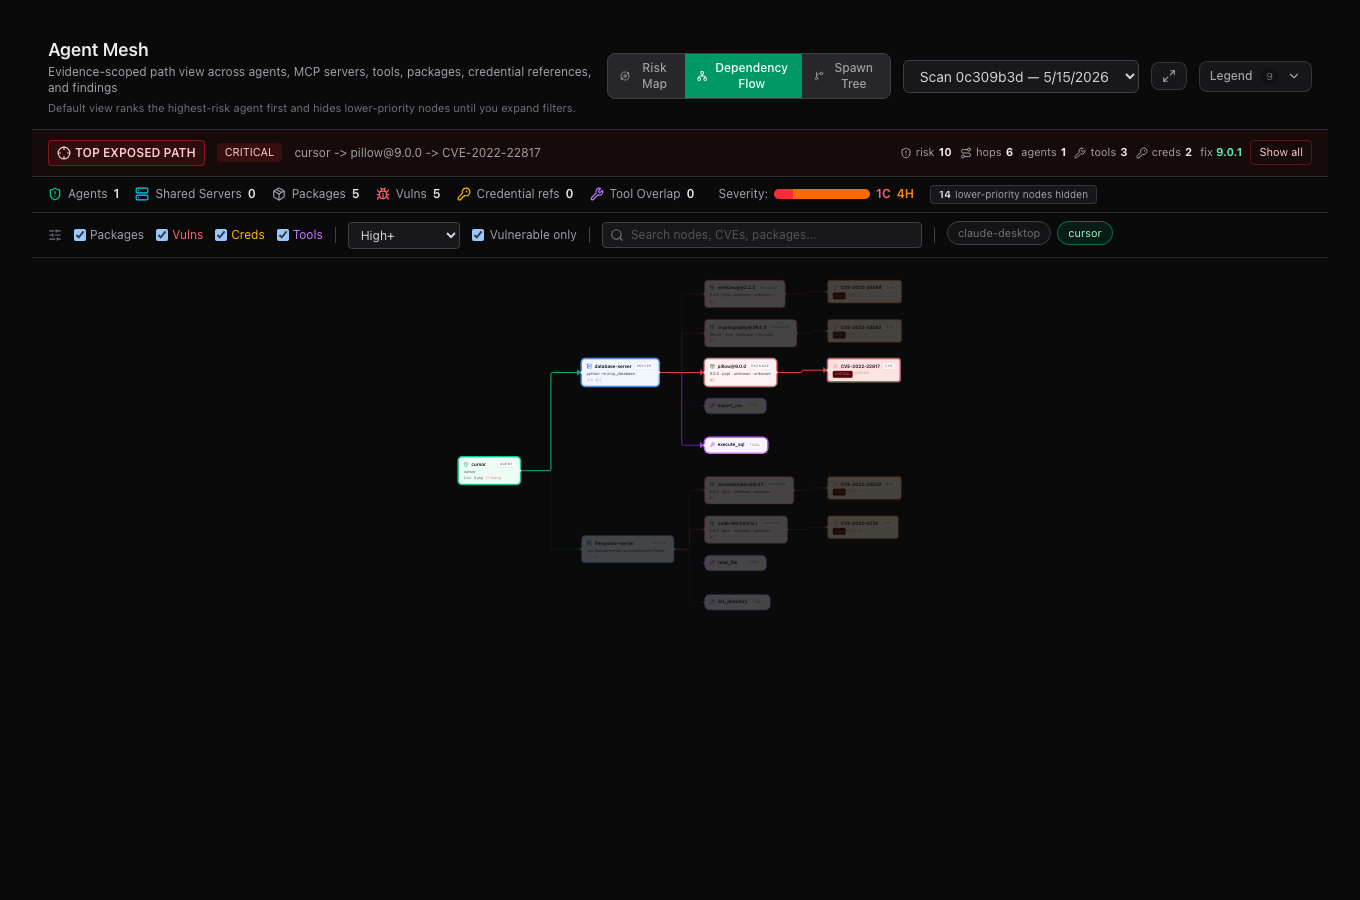
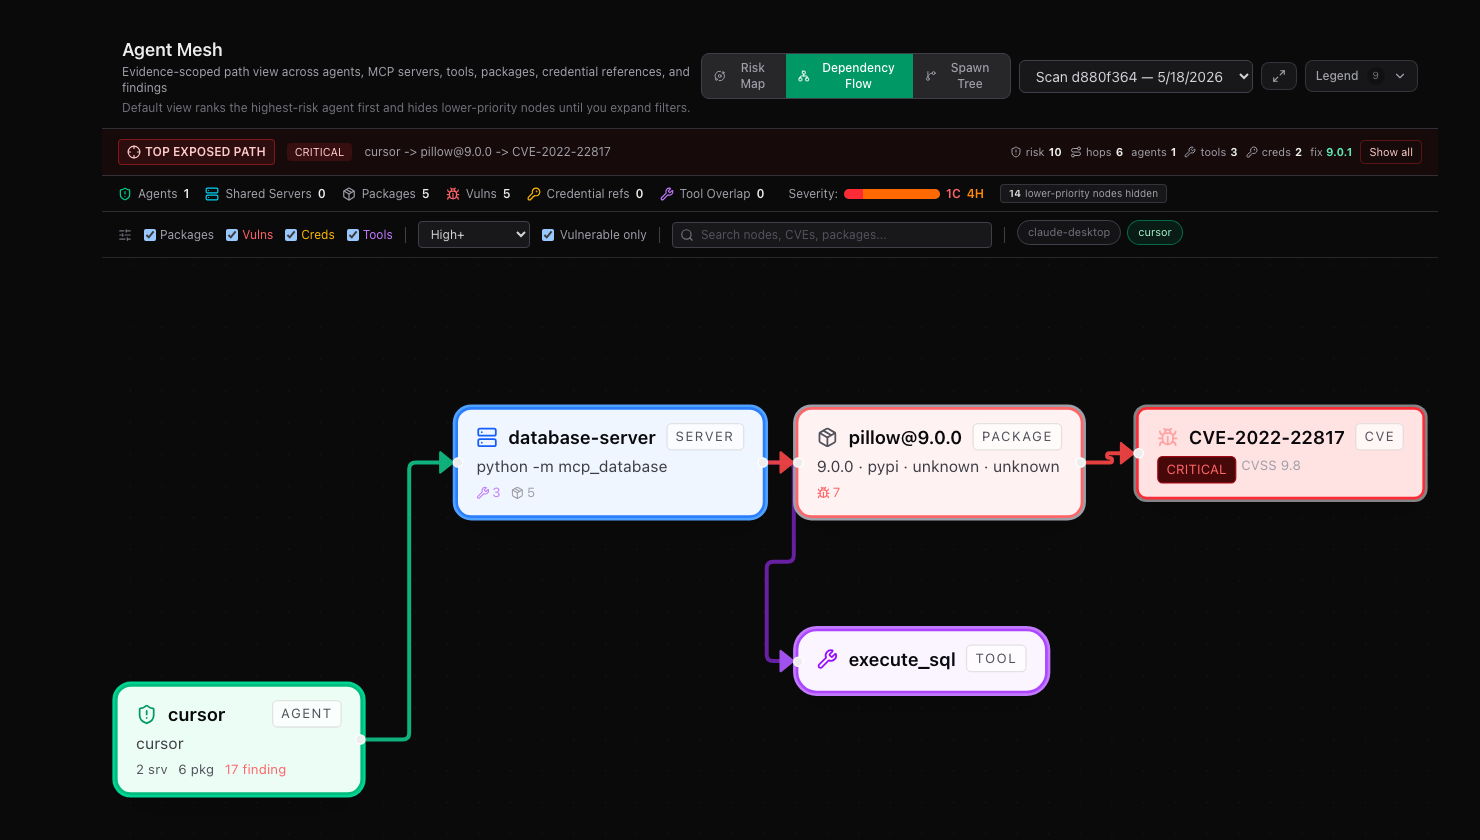
docs(product): align public proof surfaces (#2669)
Summary

- align stale public docs examples and release-safe count wording with
the current v0.87 line
- refresh the mesh graph capture so the public proof shows the active
exposure path without dimmed context or empty canvas
- update screenshot manifest metadata for the recaptured
packaged-dashboard proof

Verification

- make build-ui
- uv run agent-bom agents --demo --offline -f json -o
/tmp/agent-bom-demo-report-2667d.json
- curl -fsS -X POST -H content-type:application/json --data-binary
@/tmp/agent-bom-demo-report-2667d.json
http://127.0.0.1:8501/v1/results/push
- npm --prefix ui run typecheck
- npm --prefix ui test -- --run tests/use-capture-mode.test.tsx
tests/nav.test.tsx
- python scripts/check_release_consistency.py
- git diff --check
- uv run mkdocs build --strict

Closes #2666
Closes #2667

Pull request: docs(product): align public proof surfaces
Summary

- align stale public docs examples and release-safe count wording with the current v0.87 line
- refresh the mesh graph capture so the public proof shows the active exposure path without dimmed context or empty canvas
- update screenshot manifest metadata for the recaptured packaged-dashboard proof

Verification

- make build-ui
- uv run agent-bom agents --demo --offline -f json -o /tmp/agent-bom-demo-report-2667d.json
- curl -fsS -X POST -H content-type:application/json --data-binary @/tmp/agent-bom-demo-report-2667d.json http://127.0.0.1:8501/v1/results/push
- npm --prefix ui run typecheck
- npm --prefix ui test -- --run tests/use-capture-mode.test.tsx tests/nav.test.tsx
- python scripts/check_release_consistency.py
- git diff --check
- uv run mkdocs build --strict

Closes #2666
Closes #2667

Changed region(s): [[0.0309, 0.031, 0.9882, 0.8357], [0.0618, 0.8048, 0.2779, 0.9595]]

diff --git a/ui/app/mesh/page.tsx b/ui/app/mesh/page.tsx
@@ -318,14 +318,14 @@ export default function MeshPage() {
 
   const { nodes: visibleNodes, edges: visibleEdges } = useGraphLayout(layoutMode, rawNodes, rawEdges, {
     radial: {
-      baseRadius: 240,
-      ringSpacing: 220,
+      baseRadius: captureMode ? 170 : 240,
+      ringSpacing: captureMode ? 150 : 220,
     },
     dagre: {
-      nodeWidth: 230,
-      nodeHeight: 84,
-      rankSep: 140,
-      nodeSep: 34,
+      nodeWidth: captureMode ? 170 : 230,
+      nodeHeight: captureMode ? 64 : 84,
+      rankSep: captureMode ? 88 : 140,
+      nodeSep: captureMode ? 20 : 34,
     },
   });
 
@@ -363,21 +363,25 @@ export default function MeshPage() {
       }));
     }
     if (pathFocusIds) {
-      return visibleNodes?.map((n) => ({
+      const pathNodes = visibleNodes?.map((n) => ({
         ...n,
         data: { ...n.data, dimmed: !pathFocusIds.has(n.id), highlighted: pathFocusIds.has(n.id) },
       }));
+      return captureMode ? pathNodes.filter((n) => pathFocusIds.has(n.id)) : pathNodes;
     }
     if (!connectedIds) return visibleNodes;
     return visibleNodes?.map((n) => ({
       ...n,
       data: { ...n.data, dimmed: !connectedIds.has(n.id), highlighted: connectedIds.has(n.id) },
     }));
-  }, [visibleNodes, connectedIds, searchMatches, pathFocusIds]);
+  }, [visibleNodes, connectedIds, searchMatches, pathFocusIds, captureMode]);
 
   const displayEdges = useMemo(() => {
     const activeSet = searchMatches && searchMatches.size > 0 ? searchMatches : connectedIds ?? pathFocusIds;
-    return readableGraphEdges(visibleEdges, activeSet, {
+    const scopedEdges = captureMode && pathFocusIds
+      ? visibleEdges.filter((edge) => pathFocusIds.has(edge.source) && pathFocusIds.has(edge.target))
+      : visibleEdges;
+    return readableGraphEdges(scopedEdges, activeSet, {
       baseOpacity: 0.3,
       highSignalOpacity: 0.58,
       inactiveOpacity: 0.06,
@@ -473,19 +477,19 @@ export default function MeshPage() {
   }
 
   return (
-    <div className="h-[calc(100vh-3.5rem)] flex flex-col bg-background text-foreground">
+    <div className={`${captureMode ? "h-screen" : "h-[calc(100vh-3.5rem)]"} flex flex-col bg-background text-foreground`}>
       {/* Header */}
-      <div className="flex items-center justify-between px-4 py-3 border-b border-[var(--border-subtle)]">
+      <div className={`flex items-center justify-between border-b border-[var(--border-subtle)] ${captureMode ? "px-5 py-3" : "px-4 py-3"}`}>
         <div>
           <h1 className="text-lg font-semibold text-foreground">Agent Mesh</h1>
           <p className="text-xs text-[var(--text-secondary)]">
             Evidence-scoped path view across agents, MCP servers, tools, packages, credential references, and findings
           </p>
-          <p className="mt-1 text-[11px] text-[var(--text-tertiary)]">
+          <p className={`mt-1 text-[var(--text-tertiary)] ${captureMode ? "text-xs" : "text-[11px]"}`}>
             Default view ranks the highest-risk agent first and hides lower-priority nodes until you expand filters.
           </p>
         </div>
-        <div className="flex items-center gap-3">
+        <div className={`flex items-center ${captureMode ? "gap-2" : "gap-3"}`}>
           <div className="flex items-center overflow-hidden rounded-lg border border-zinc-700 bg-zinc-800">
             {[
               { key: "radial" as const, label: "Risk Map", icon: Orbit },

diff --git a/ui/lib/graph-viewport.ts b/ui/lib/graph-viewport.ts
@@ -63,13 +63,13 @@ export function graphFitViewOptions(input: GraphViewportInput): GraphFitViewOpti
   }
 
   if (input.captureMode) {
-    padding -= input.mode === "mesh" ? 0.06 : 0.02;
-    maxZoom += input.mode === "mesh" ? 0.44 : 0.1;
+    padding -= input.mode === "mesh" ? 0.1 : 0.02;
+    maxZoom += input.mode === "mesh" ? 0.92 : 0.1;
   }
 
   return {
-    padding: clamp(padding, 0.08, 0.24),
-    maxZoom: clamp(maxZoom + selectedBoost, 0.82, 2.25),
+    padding: clamp(padding, input.captureMode && input.mode === "mesh" ? 0.02 : 0.08, 0.24),
+    maxZoom: clamp(maxZoom + selectedBoost, 0.82, input.captureMode && input.mode === "mesh" ? 3 : 2.25),
     duration: input.captureMode ? 0 : 240,
   };
 }

diff --git a/docs/snowflake-native-app/MARKETPLACE.md b/docs/snowflake-native-app/MARKETPLACE.md
@@ -27,7 +27,7 @@ are configured.
   bearer token.
 - The release workflow is manually dispatched and defaults to `dry_run: true`.
 - If no version input is supplied, the workflow derives the Snowflake package
-  label from `pyproject.toml` (`0.86.3` -> `v0_86_3`) so package labels do not
+  label from `pyproject.toml` (for example, `0.87.0` -> `v0_87_0`) so package labels do not
   drift from the release version.
 - Live publish requires the protected `snowflake-marketplace` environment plus
   `SNOWFLAKE_ACCOUNT`, `SNOWFLAKE_USER`, `SNOWFLAKE_PRIVATE_KEY`, and
@@ -48,7 +48,7 @@ for spec in sorted((root / "service-specs").glob("*.yaml")):
 PY
 
 mkdir -p dist
-tar -czf dist/agent-bom-snowflake-v0_86_3.tgz -C deploy/snowflake/native-app .
+tar -czf dist/agent-bom-snowflake-v0_87_0.tgz -C deploy/snowflake/native-app .
 ```
 
 ## Customer smoke checklist

diff --git a/site-docs/deployment/snowflake-pov.md b/site-docs/deployment/snowflake-pov.md
@@ -6,7 +6,7 @@ the operator boundary.
 
 ## Scope
 
-The v0.84.4 POV scope is:
+The current POV scope is:
 
 - self-hosted API + UI control plane
 - operator-owned Postgres-compatible control-plane database
@@ -178,7 +178,7 @@ goal.
 
 | Surface | Current state |
 |---|---|
-| Draft PR remediation | Roadmap; not part of v0.84.4 |
+| Draft PR remediation | Roadmap; not part of the current POV |
 | Auto-remediation | Roadmap |
 | Full Compliance Hub | Roadmap |
 | Complete IAM-to-agent traversal | Roadmap |

diff --git a/docs/ARCHITECTURE.md b/docs/ARCHITECTURE.md
@@ -126,7 +126,7 @@ The full contract for what the graph promises and what it does not — entity ty
 
 ## 4. Compliance Tagging
 
-Every finding is tagged against 15 tag-mapped frameworks, grouped into four families. OWASP AISVS is exposed as a separate benchmark result with per-check evidence. The bundled mappings are a curated subset of each framework focused on AI/MCP/agent risk-relevant controls — they are not a complete catalog. See [Coverage per framework](#coverage-per-framework) below for the honest control counts.
+Every finding is tagged against curated compliance frameworks, grouped into four families. OWASP AISVS is exposed as a separate benchmark result with per-check evidence. The bundled mappings are a curated subset of each framework focused on AI/MCP/agent risk-relevant controls — they are not a complete catalog. See [Coverage per framework](#coverage-per-framework) below for the generated control counts.
 
 ```mermaid
 graph LR

diff --git a/docs/ENTERPRISE_SECURITY_PLAYBOOK.md b/docs/ENTERPRISE_SECURITY_PLAYBOOK.md
@@ -167,7 +167,7 @@ Central policy management at [`/v1/gateway/policies`](../src/agent_bom/api/route
 
 - **HMAC-chained audit log** — [`api/audit_log.py`](../src/agent_bom/api/audit_log.py). Every entry signs the previous entry's signature; tampering with any row invalidates the chain from that point forward.
 - **Ed25519-signed evidence bundles** — [`api/compliance_signing.py`](../src/agent_bom/api/compliance_signing.py). Auditor fetches the public key from [`/v1/compliance/verification-key`](../src/agent_bom/api/routes/compliance.py) once, pins it, verifies every bundle offline. Cookbook: [COMPLIANCE_SIGNING.md](COMPLIANCE_SIGNING.md).
-- **15 tag-mapped compliance frameworks plus AISVS** — OWASP LLM Top 10, OWASP MCP Top 10, OWASP Agentic Top 10, MITRE ATLAS, MITRE ATT&CK Enterprise, NIST AI RMF, NIST CSF 2.0, NIST 800-53, FedRAMP, ISO 27001, SOC 2, CIS Controls v8, CMMC, EU AI Act, and PCI DSS are mapped to findings inline. OWASP AISVS is exposed as a benchmark result with per-check evidence.
+- **Curated compliance mappings plus AISVS** — OWASP LLM Top 10, OWASP MCP Top 10, OWASP Agentic Top 10, MITRE ATLAS, MITRE ATT&CK Enterprise, NIST AI RMF, NIST CSF 2.0, NIST 800-53, FedRAMP, ISO 27001, SOC 2, CIS Controls v8, CMMC, EU AI Act, and PCI DSS are mapped to findings inline. OWASP AISVS is exposed as a benchmark result with per-check evidence.
 - **Tenant isolation on every export** — evidence bundle only carries scans + audit events from the authed tenant. Cross-tenant tests: [`tests/test_api_cross_tenant_matrix.py`](../tests/test_api_cross_tenant_matrix.py), [`tests/test_cross_tenant_leakage.py`](../tests/test_cross_tenant_leakage.py).
 
 ### 2.8 Scale: "Will this hold up at 50k packages and a 5k-agent fleet?"

diff --git a/docs/GITHUB_ACTION_SARIF_TROUBLESHOOTING.md b/docs/GITHUB_ACTION_SARIF_TROUBLESHOOTING.md
@@ -23,7 +23,7 @@ jobs:
     runs-on: ubuntu-latest
     steps:
       - uses: actions/checkout@v4
-      - uses: msaad00/agent-bom@v0.86.3
+      - uses: msaad00/agent-bom@v0.87.0
         with:
           scan-type: agents
           format: sarif

diff --git a/docs/INACCURATE_FINDING_REPORT.md b/docs/INACCURATE_FINDING_REPORT.md
@@ -33,7 +33,7 @@ private names with stable placeholders like `private-pypi-package`.
 ````markdown
 ### agent-bom version
 
-agent-bom 0.86.3
+agent-bom 0.87.0
 
 ### Finding type
 

diff --git a/docs/MCP_ERROR_CODES.md b/docs/MCP_ERROR_CODES.md
@@ -98,7 +98,7 @@ matrix records what each surface exposes and why.
 | Run a scan | `POST /v1/scan` | `scan` | Same scan pipeline. |
 | Look up CVE blast radius | `GET /v1/findings/{cve}` | `blast_radius` | MCP returns the same shape. |
 | Query the MCP server registry | `GET /v1/registry/servers` | `registry_lookup`, `marketplace_check`, `fleet_scan` | Registry is read-only on both. |
-| Compliance posture | `GET /v1/compliance/{framework}` / `GET /v1/compliance/aisvs` | `compliance` | 15 tag-mapped frameworks plus AISVS benchmark evidence (curated subsets — see [ARCHITECTURE.md § Coverage per framework](./ARCHITECTURE.md#coverage-per-framework)), both surfaces. |
+| Compliance posture | `GET /v1/compliance/{framework}` / `GET /v1/compliance/aisvs` | `compliance` | Curated tag-mapped frameworks plus AISVS benchmark evidence (see [ARCHITECTURE.md § Coverage per framework](./ARCHITECTURE.md#coverage-per-framework)), both surfaces. |
 | SBOM generation | `POST /v1/sbom` | `generate_sbom` | CycloneDX + SPDX on both. |
 | Policy evaluation | `POST /v1/gateway/evaluate` | `policy_check` | Same `check_policy` evaluator. |
 

diff --git a/docs/MCP_SECURITY_MODEL.md b/docs/MCP_SECURITY_MODEL.md
@@ -164,7 +164,7 @@ agent-bom agents --enforce    # + static tool poisoning analysis
 agent-bom agents --gpu-scan   # + GPU containers, CUDA versions, DCGM exposure
 ```
 
-Outputs: blast radius tree, compliance mapping (15 tag-mapped frameworks plus AISVS benchmark evidence — curated control subsets, see [ARCHITECTURE.md § Coverage per framework](./ARCHITECTURE.md#coverage-per-framework)), posture score, SARIF/CycloneDX/SPDX/HTML.
+Outputs: blast radius tree, compliance mapping (curated tag-mapped frameworks plus AISVS benchmark evidence — see [ARCHITECTURE.md § Coverage per framework](./ARCHITECTURE.md#coverage-per-framework)), posture score, SARIF/CycloneDX/SPDX/HTML.
 
 ### 4.2 Proxy mode
 

diff --git a/docs/SECURITY_ARCHITECTURE.md b/docs/SECURITY_ARCHITECTURE.md
@@ -150,7 +150,7 @@ The full contract — entity and edge enums, accuracy guarantees, scaling tiers,
 
 ### Compliance Framework Mapping
 
-agent-bom **maps findings TO compliance controls** across 15 tag-mapped frameworks and exposes AISVS as a benchmark:
+agent-bom **maps findings TO compliance controls** across curated tag-mapped frameworks and exposes AISVS as a benchmark:
 
 OWASP LLM Top 10, OWASP MCP Top 10, OWASP Agentic Top 10,
 EU AI Act, NIST AI RMF, NIST CSF, NIST 800-53 Rev 5, FedRAMP Moderate,

diff --git a/site-docs/features/compliance.md b/site-docs/features/compliance.md
@@ -1,6 +1,6 @@
 # Compliance Frameworks
 
-agent-bom maps scan findings to 15 tag-mapped security and compliance frameworks and exposes OWASP AISVS as benchmark evidence.
+agent-bom maps scan findings to curated security and compliance frameworks and exposes OWASP AISVS as benchmark evidence.
 
 Framework catalogs are pinned in-repo by default so scans stay deterministic,
 offline-friendly, and reproducible. Catalog refreshes can happen out of band;